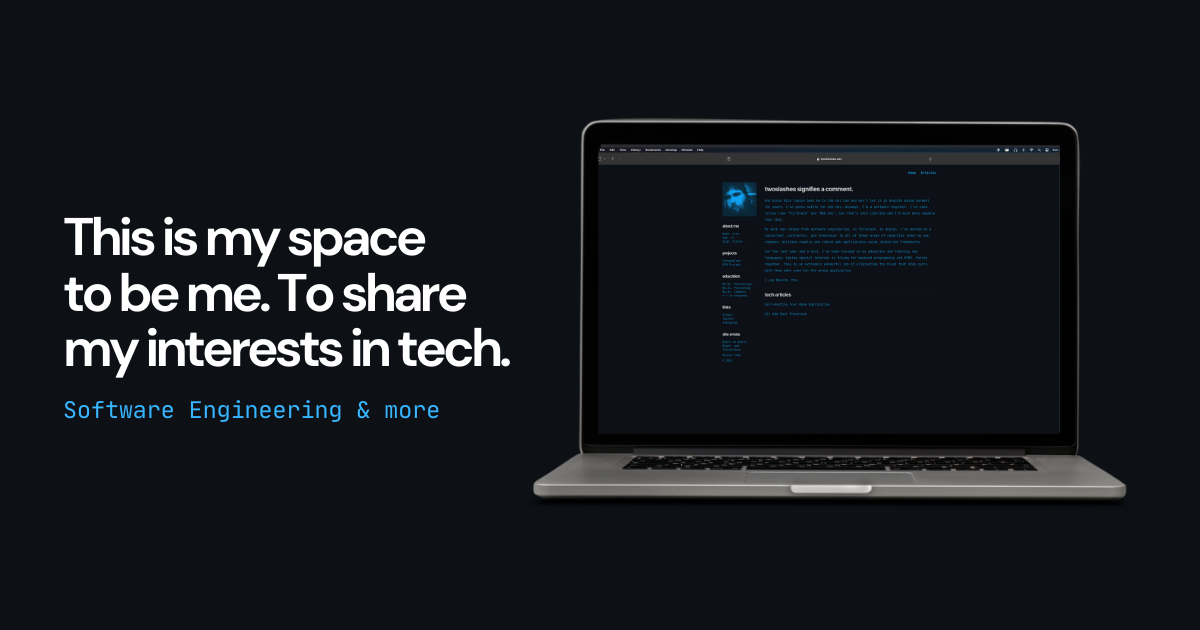
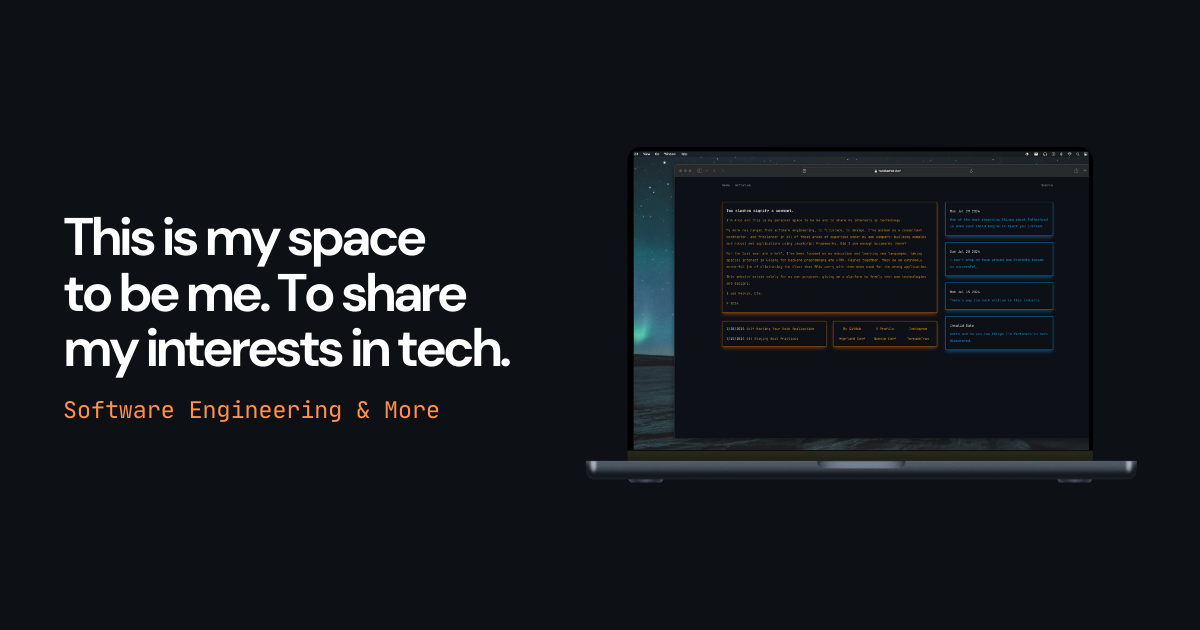
Updated meta image, responsive shadow on article page

Changed region(s): [[0.4317, 0.181, 0.9558, 0.8143], [0.0308, 0.6333, 0.37, 0.6635]]

diff --git a/src/styles/global.css b/src/styles/global.css
@@ -161,6 +161,10 @@ a:hover {
   @apply flex flex-col justify-center gap-4 border text-amber-500 border-amber-500 p-5 md:shadow-lg md:shadow-amber-900;
 }
 
+.article-page-list-item {
+  @apply border border-amber-500 md:hover:border-amber-200 md:shadow-lg md:shadow-amber-900 md:hover:shadow-amber-200 p-6 text-amber-500 md:hover:text-amber-200;
+}
+
 .blog-item {
   @apply text-amber-500 w-full md:w-2/3 pb-12 mx-auto;
 }
